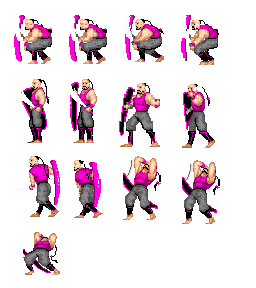
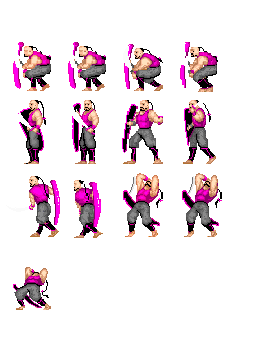
enemy_green and purple adjustments

diff --git a/Shinobi/Shinobi/Source/Enemy_green.cpp b/Shinobi/Shinobi/Source/Enemy_green.cpp
@@ -1,6 +1,4 @@
-
-using namespace std;
-#include "Enemy_Purple.h"
+#include "Enemy_green.h"
 
 #include "Application.h"
 #include "ModuleCollisions.h"
@@ -9,50 +7,51 @@ using namespace std;
 #include "ModuleParticles.h"
 #include <iostream>
 
-Enemy_Purple::Enemy_Purple(int x, int y) : Enemy(x, y)
+Enemy_green::Enemy_green(int x, int y) : Enemy(x, y)
 {
 	//initial position
 
 	//idle animation
-	idleAnim.PushBack({ 6,19,54,72 });
+	idleAnim.PushBack({ 389,74,96,72 });
 
 	//walk animation
-	walkAnim.PushBack({ 6,19,54,72 });
-	walkAnim.PushBack({ 61,19,54,72 });
-	walkAnim.PushBack({ 116,19,54,72 });
-	walkAnim.PushBack({ 171,19,54,72 });
-	walkAnim.speed = 0.05f;
+	walkAnim.PushBack({ 1,74,96,72 });
+	walkAnim.PushBack({ 98,74,96,72 });
+	walkAnim.PushBack({ 195,74,96,72 });
+	walkAnim.PushBack({ 292,74,96,72 });
+	walkAnim.speed = 0.1f;
 
 	currentAnim = &walkAnim;
 
 	//shoot animation
-	hitAnim.PushBack({ 6,92,54,72 });
-	hitAnim.PushBack({ 61,92,54,72 });
-	hitAnim.PushBack({ 116,92,54,72 });
-	hitAnim.PushBack({ 171,92,54,72 });
-	hitAnim.PushBack({ 6,165,54,72 });
-	hitAnim.PushBack({ 61,165,54,72 });
+	hitAnim.PushBack({ 389,74,96,72 });
+	hitAnim.PushBack({ 486,74,96,72 });
+	hitAnim.PushBack({ 389,1,96,72 });
+	hitAnim.PushBack({ 292,1,96,72 });
+	hitAnim.PushBack({ 195,1,96,72 });
+	hitAnim.PushBack({ 98,1,96,72 });
+	hitAnim.PushBack({ 1,1,96,72 });
 	hitAnim.speed = 0.14f;
 	hitAnim.loop = false;
 
-	dieAnim.PushBack({ 116,165,54,72 });
-	dieAnim.PushBack({ 171,165,54,72 });
-	dieAnim.PushBack({ 6,238,54,72 });
+	dieAnim.PushBack({ 1,147,96,72 });
+	dieAnim.PushBack({ 98,147,96,72 });
+	dieAnim.PushBack({ 195,147,96,72 });
 	dieAnim.speed = 0.08f;
 	dieAnim.loop = false;
 
 
 	//colliders
-	collider = App->collisions->AddCollider({ position.x, position.y, 40, 50 }, Collider::Type::ENEMY, (Module*)App->enemies);
+	collider = App->collisions->AddCollider({ position.x + 25, position.y + 4, 35, 62 }, Collider::Type::ENEMY, (Module*)App->enemies);
 	attack = App->collisions->AddCollider({ 0, 0, 0, 0 }, Collider::Type::ENEMY_SHOT, (Module*)App->enemies);
 
 	/*feet = App->collisions->AddCollider({ position.x, position.y + 69, 83, 1 }, Collider::Type::FEET, (Module*)App->enemies);*/
 
 }
 
-void Enemy_Purple::Update()
+void Enemy_green::Update()
 {
-	flipPos.x = position.x;
+	flipPos.x = position.x + 20;
 	//std::cout << position.x << std::endl;
 	if (!die)
 	{
@@ -168,9 +167,6 @@ void Enemy_Purple::Update()
 
 		if (shooting)
 		{
-			cout << position.y<<endl;
-			position.y=139;
-			collider->rect.h = 70;
 			time++;
 			if (time >= 50)
 			{
@@ -186,13 +182,6 @@ void Enemy_Purple::Update()
 				//}
 			}
 		}
-		else
-		{
-			
-			collider->rect.h = 50;
-			collider->SetPos(position.x, position.y);
-		}
-
 
 		//reload delay
 		if (reloading)
@@ -204,7 +193,7 @@ void Enemy_Purple::Update()
 				time = 0;
 			}
 		}
-		//collider->SetPos(position.x, position.y);
+		collider->SetPos(position.x + 25, position.y + 4);
 		//attack->SetPos(position.x + 25, position.y + 4);
 	}
 	else if (die) {

diff --git a/Shinobi/Shinobi/Source/ModuleEnemies.cpp b/Shinobi/Shinobi/Source/ModuleEnemies.cpp
@@ -11,6 +11,8 @@
 #include "Enemy_Fighter.h"
 #include "Enemy_Soldier.h"
 #include "Enemy_Purple.h"
+#include "Enemy_green.h"
+
 
 #include "ModuleScene.h"
 
@@ -43,6 +45,7 @@ bool ModuleEnemies::Start()
 	fighter = App->textures->Load("Assets/fighter.png");
 	soldier = App->textures->Load("Assets/soldier.png");
 	purple = App->textures->Load("Assets/purple.png");
+	green = App->textures->Load("Assets/green.png");
 
 	stageTextureL2 = App->textures->Load("Assets/Scenes/layer_aa.png");
 
@@ -97,6 +100,7 @@ bool ModuleEnemies::CleanUp()
 	App->textures->Unload(fighter);
 	App->textures->Unload(soldier);
 	App->textures->Unload(purple);
+	App->textures->Unload(green);
 
 	return true;
 }
@@ -185,6 +189,11 @@ void ModuleEnemies::SpawnEnemy(const EnemySpawnpoint& info)
 				case ENEMY_TYPE::PURPLE:
 					enemies[i] = new Enemy_Purple(info.x, info.y);
 					enemies[i]->texture = purple;
+					enemies[i]->destroyedFx = enemyDestroyedFx;
+					break;
+				case ENEMY_TYPE::GREEN:
+					enemies[i] = new Enemy_green(info.x, info.y);
+					enemies[i]->texture = green;
 					enemies[i]->destroyedFx = enemyDestroyedFx;
 					break;
 			}

diff --git a/Shinobi/Shinobi/Source/Enemy_green.h b/Shinobi/Shinobi/Source/Enemy_green.h
@@ -1,0 +1,50 @@
+#ifndef __ENEMY_GREEN_H__
+#define __ENEMY_GREEN_H__
+
+#include "Enemy.h"
+#include "Path.h"
+
+class Enemy_green : public Enemy
+{
+public:
+
+	// Constructor (x y coordinates in the world)
+	// Creates animation data and the collider
+	Enemy_green(int x, int y);
+
+	// The enemy is going to perform a sinusoidal movement
+	void Update() override;
+
+private:
+	// The position (as ratio) in the wave at a specific moment
+	float waveRatio = 0.0f;
+
+	// The speed at which the wave ratio is increased
+	float waveRatioSpeed = 0.01f;
+
+	// The original spawning position. The wave will be calculated from that
+	int spawn_y = 0;
+
+	// The total height of the wave
+	int waveHeight = 50;
+
+	Path path;
+
+	// The enemy animation
+	Animation idleAnim;
+	Animation walkAnim;
+	Animation hitAnim;
+	Animation dieAnim;
+
+	bool changedirection = true;
+
+	bool pl = false;
+
+	int pos1 = 500, pos2 = 650;
+	int pdistance = 200;
+	int shot = 0;
+	bool shooting = false, reloading = false, walking = true;
+	int time = 0;
+};
+
+#endif // __ENEMY_GREEN_H__

diff --git a/Shinobi/Shinobi/Source/ModuleEnemies.h b/Shinobi/Shinobi/Source/ModuleEnemies.h
@@ -14,6 +14,7 @@ enum class ENEMY_TYPE
 	FIGHTER,
 	SOLDIER,
 	PURPLE,
+	GREEN,
 };
 
 struct EnemySpawnpoint
@@ -79,6 +80,7 @@ private:
 	SDL_Texture* fighter = nullptr;
 	SDL_Texture* soldier = nullptr;
 	SDL_Texture* purple = nullptr;
+	SDL_Texture* green = nullptr;
 
 	SDL_Texture* stageTextureL2 = nullptr;
 
